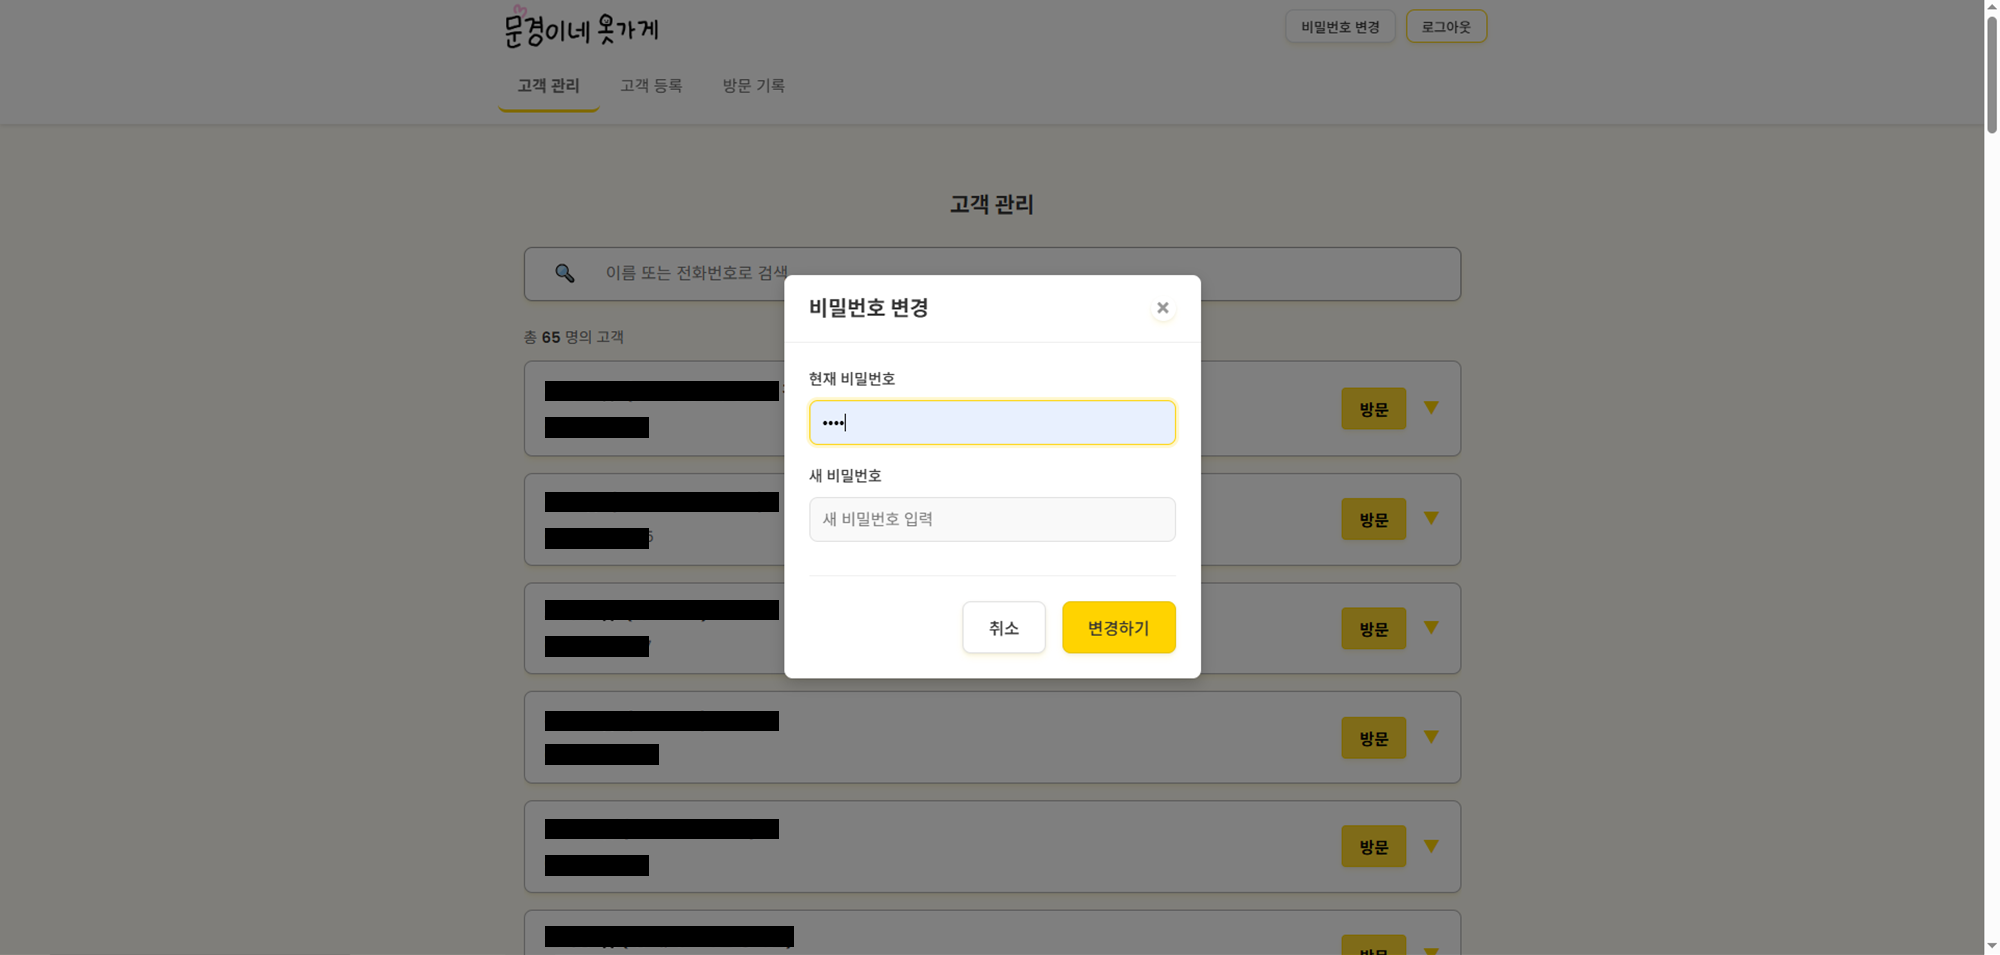
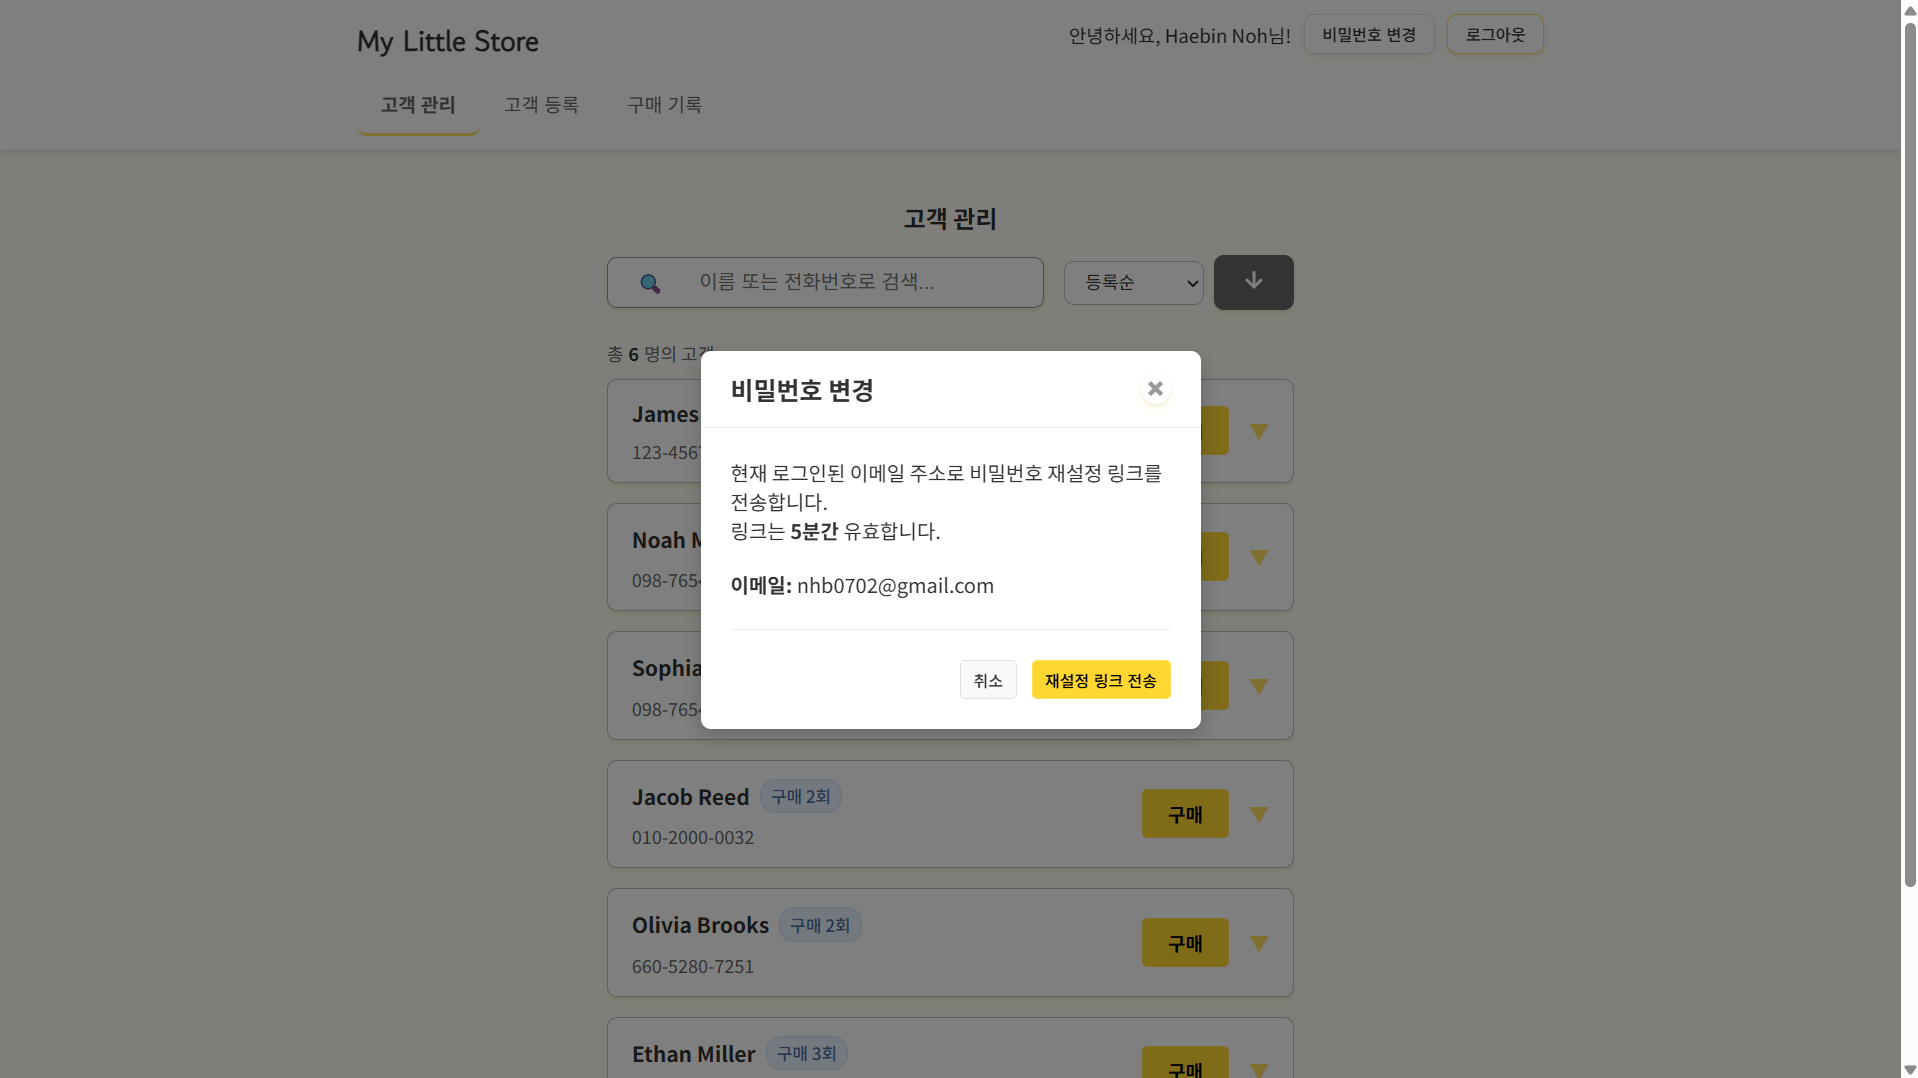
update README

diff --git a/README.md b/README.md
@@ -1,72 +1,70 @@
-# Mungyeong’s Closet (Customer Management System)
+# Otkkage (Customer Management SaaS Application)
 
 ## Project Overview
 
-Mungyeong’s Closet is a lightweight customer-management MVP built for a single clothing store owner who needed a solution fast.
+Otkkage is a lightweight customer-management system built for clothing store owners who need a fast, reliable solution.
 I converted years of handwritten customer and purchase records into a simple digital dashboard, making it much easier for my mother to manage her clients.
+
+The system supports multiple users with secure authentication, allowing each store owner to manage their own customer database independently.
 
 ---
  
 ## Key Features
+
+- **User Authentication**
+  - User registration with email verification
+  - Secure login with Supabase Auth
+  - Password reset functionality
+  - Session-based authentication with PKCE flow
 
 - **Customer Information Management**
   - Register/Edit/Delete customer basic information
   - Detailed customer notes (preferred styles, sizes, preferred/avoided colors, etc.)
   - Quick search by customer name and contact information
 
-- **Visit History Management**
-  - Record visit dates
+- **Purchase History Management**
+  - Record purchase details
   - Date filtering (today/yesterday/day before/this week/last week)
-  - Visit count statistics
+  - Purchase count statistics
+  - Purchase history tracking with edit capability
+  - CSV export functionality for purchase records
 
 ---
 
 ## Tech Stack
 
 - **Frontend**
-  - React + Vite
-  - React Router
+  - React 19 + Vite
+  - React Router DOM (client-side routing)
+  - Zustand (state management)
+  - React Hot Toast (notifications)
+  - React Icons (icon library)
 
-- **Backend**
-  - Supabase
+- **Backend & Database**
+  - Supabase (Backend-as-a-Service)
+    - PostgreSQL database
+    - Row Level Security (RLS) policies
+    - Real-time subscriptions ready
 
-- **Authentication/Security**
-  - Password encryption (bcrypt)
+- **Authentication & Security**
+  - Supabase Auth with PKCE flow
+  - Email verification for new users
+  - Password reset functionality
   - Session-based authentication
 
-- **Testing**
+- **Additional Libraries**
+  - XLSX (CSV export functionality)
+  - bcryptjs (legacy password migration support)
+
+- **Development Tools**
   - Postman (API testing)
 
 ---
 
-## Installation and Setup
+## Project Architecture
 
-1. Clone Repository
-```bash
-git clone https://github.com/yourusername/iloveyoumom.git
-cd iloveyoumom
-```
+![Architecture](/src/assets/ui/etc/architecture.png?v=2)
 
-2. Environment Variables Setup
-- Create a `.env.local` file and add the following:
-```
-VITE_SUPABASE_URL=your_supabase_url
-VITE_SUPABASE_ANON_KEY=your_supabase_anon_key
-```
-
-3. Install Dependencies and Run
-```bash
-npm install
-npm run dev
-```
-
-4. Migration & Seeder
-```bash
-npx supabase db push
-
-npx supabase db execute --file supabase/seed/001_base.sql --linked
-npx supabase db execute --file supabase/seed/010_demo.sql --linked
-```
 ---
 
 ## Project Structure
@@ -74,77 +72,134 @@ npx supabase db execute --file supabase/seed/010_demo.sql --linked
 ```
 iloveyoumom/
 ├── src/
-│   ├── components/     # Reusable components
-│   ├── contexts/       # Context API related files
-│   ├── pages/         # Page components
-│   ├── styles/        # CSS style files
-│   ├── assets/        # Images and static files
-│   └── configs/       # Configuration files
-└── public/            # Static files
+│   ├── components/           # React components
+│   │   ├── commons/          # Reusable common components
+│   │   ├── layout/           # Layout components (Navbar, Footer)
+│   │   └── routes/           # Route-related components
+│   ├── pages/                # Page components
+│   │   └── errors/           # Error pages
+│   ├── routes/               # Route handlers
+│   ├── stores/               # Zustand state management stores
+│   ├── lib/                  # External library configs (Supabase client)
+│   ├── assets/               # Static assets
+│   │   ├── styles/           # CSS files organized by component/page
+│   │   └── ui/               # UI screenshots and images
+│   └── main.jsx              # Application entry point
+├── supabase/
+│   ├── migrations/           # Database migration files
+│   └── seed/                 # Database seed files
+└── public/                   # Public static files
 ```
 
 ---
 
 ## DB Schema
 
-- **users**: System user information
-- **customers**: Customer information
-- **history**: Visit history records
+- **auth.users**: Supabase Auth users with custom metadata (`full_name`, `store_name`, `phone`)
+- **customer**: Customer information with RLS policies (users can only access their own customers)
+- **history**: Visit and purchase history records
+
+![ERD](/src/assets/ui/etc/supabaseSchema.png?v=2)
 
 ---
 
 ## Security and Data Protection
 
-- All passwords are encrypted and stored using bcrypt
-- Sensitive information managed through environment variables
+- **Authentication**: Supabase Auth with PKCE flow and email verification
+- **Authorization**: Row Level Security (RLS) policies enforce data isolation per user
+- **Password Security**: Handled by Supabase Auth with industry-standard encryption
+- **Environment Variables**: All sensitive credentials stored in `.env.local` file
+- **Data Privacy**: Users can only access and modify their own customer data
 
 ---
 
 ## Deployment
 
-- Deployed on Vercel: ***URL IS PRIVATE***
-- Environment variables managed through Vercel dashboard
+- Deployed on Vercel: https://otkkage.vercel.app/
 
 ---
 
-## Future Plans
+## Future Plan (Implementation)
 
-- System expansion for multi-user support
-- Add inventory management system
-- Sales statistics and reporting features
-- Mobile app version development
-- Online shop integration
+- **Analytics Dashboard**: Sales statistics, customer insights, and reporting features
+- **Notifications**: Email/SMS reminders for customer follow-ups
 
 ---
 
 ## UX/UI
 
-### 1. Login Page
-![Login Page](/src/assets/ui/loginPage.png)
-- Single user login
-- Simple password-based authentication
+- All the data is mock data for demo
 
-### 2. Main Page
-![Main Page](/src/assets/ui/mainPage.png)
-- Customer list and search
-- Quick visit record registration
-- Password change functionality
-![Password Change](/src/assets/ui/changePassword.png)
-- Customer information editing
-![Customer Edit](/src/assets/ui/mainPage_customerInfo_edit.png)
+### 1. Login & Registration
 
-### 3. Customer Details
-![Customer Details](/src/assets/ui/mainPage_customerInfo.png)
-- View detailed customer information
-- Notes and visit history
+#### a. Login Page
+![Login Page](/src/assets/ui/loginPage.png?v=2)
+- Secure login with email and password
+- New user registration with email verification
+- Automatic redirection for authenticated users
 
-### 4. Customer Registration
-![Customer Registration - Basic Info](/src/assets/ui/registerPage1.png)
-![Customer Registration - Additional Info](/src/assets/ui/registerPage2.png)
+#### b. Registration Page
+![Register Page](/src/assets/ui/registerPage.png?v=2)
+- User registration with email verification
+- Input fields for name, store name, phone, email, and password
+- Form validation for required fields
+
+### 2. Main Dashboard
+
+#### a. Main Page
+![Main Page](/src/assets/ui/mainPage.png?v=2)
+- Customer list with pagination
+- Search by name or phone number
+- Purchase record registration
+- Password change button
+
+#### b. Customer Information
+![Customer Info](/src/assets/ui/customerInfo.png?v=2)
+- Detailed customer profile view
+- Display customer's basic information and preferences
+- Access to edit and delete functions
+
+#### c. Edit Customer Information
+![Customer Info Edit](/src/assets/ui/mainPage_customerInfo_edit.png?v=2)
+- Modal form for editing customer details
+- Update customer information (name, phone, sizes, preferences)
+- Save or cancel changes
+
+#### d. Password Change Modal
+![Password Change](/src/assets/ui/changePassword.png?v=2)
+- Secure password change via email verification
+- Email sent with password reset link
+
+![Password Change Email](/src/assets/ui/changePasswordEmail.png?v=2)
+- Password reset confirmation email
+- Secure link for updating password
+
+### 3. Customer Registration Page
+![Customer Registration](/src/assets/ui/customerRegister.png?v=2)
 - Basic information (name, contact, date of birth, gender)
 - Additional information (sizes, preferences, notes)
+- Form validation and required field indicators
 
-### 5. Visit History
-![Visit History Page](/src/assets/ui/historyPage.png)
-- View all visit records
-- Filter by date/period
+### 4. Purchase History Page
+#### a. Purchase History Page
+![Purchase History Page](/src/assets/ui/historyPage.png?v=2)
+- View all purchase records
+- Filter by date/period (today, yesterday, this week, last week, etc.)
+- Search by customer name
+- Edit or delete history entries
+- Track purchase details and amounts
+- CSV download button
+
+#### b. Edit Purchase Record
+![Edit Purchase Record](/src/assets/ui/editPurchaseRecord.png?v=2)
+- Modal form for editing purchase history
+- Update visit date and purchase details
+- Save or cancel modifications
+
+#### c. CSV Download Modal
+![CSV Download](/src/assets/ui/excelDownload.png?v=2)
+- Export purchase records to CSV file
+- Select date range for export
+
+![CSV File](/src/assets/ui/excelFile.png?v=2)
+- Example of exported CSV file with purchase data
